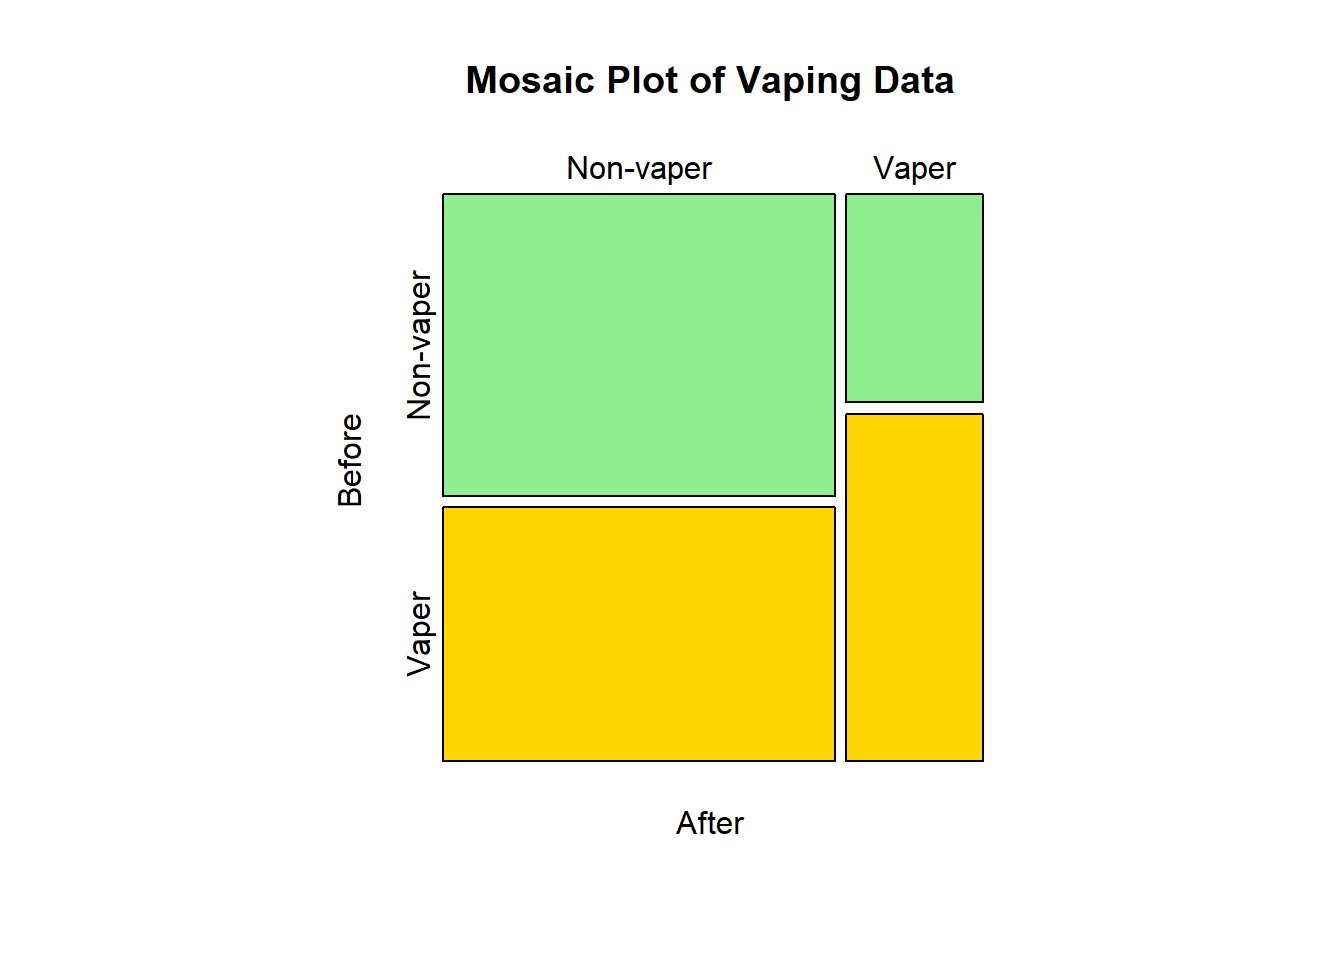
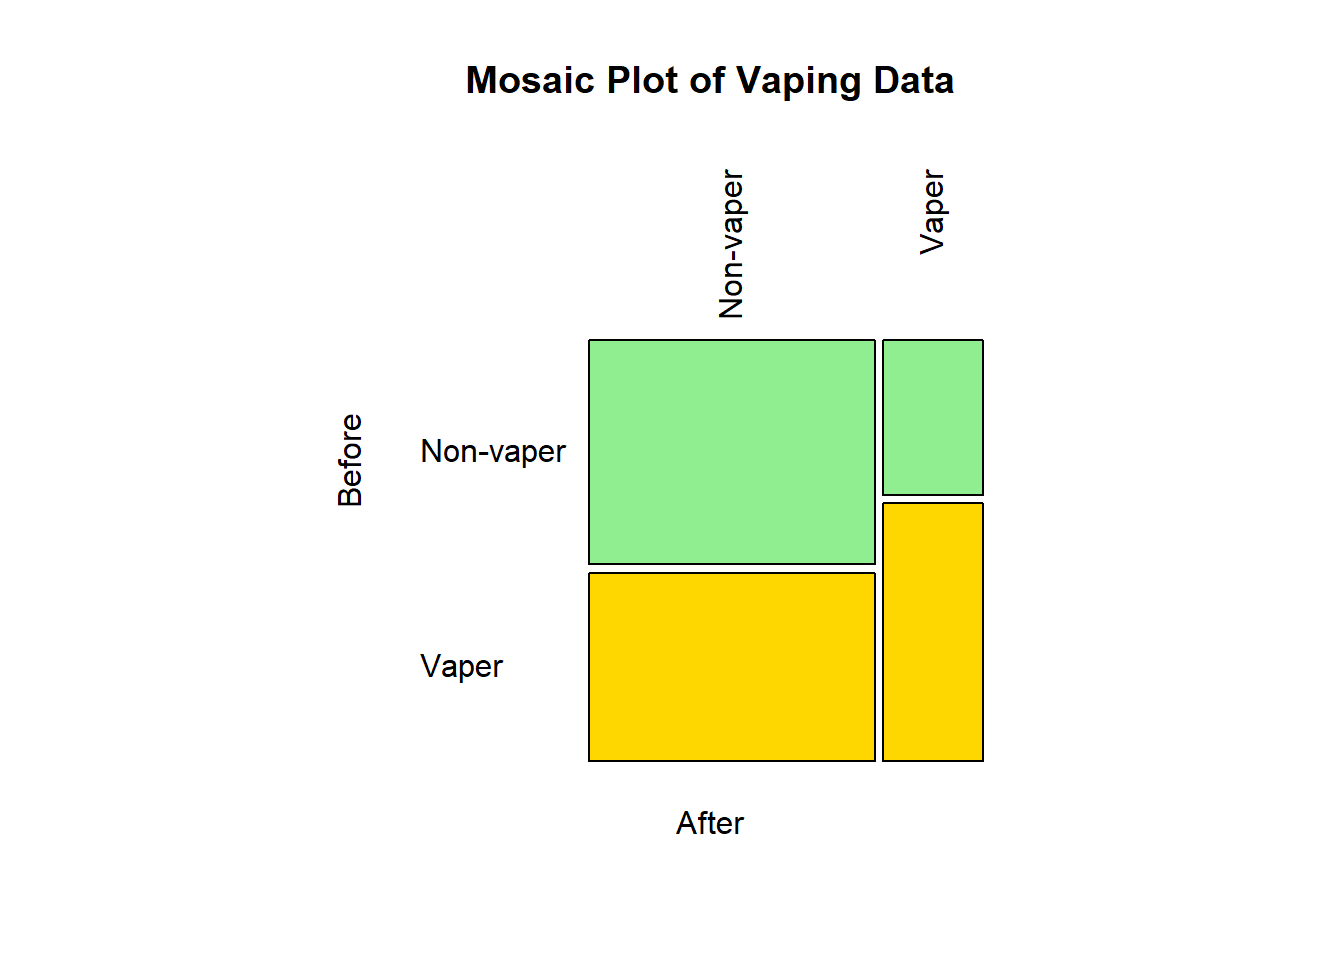
Add files via upload

Changed region(s): [[0.2812, 0.1562, 0.75, 0.8125]]

diff --git a/Stats_Workshop_4.html b/Stats_Workshop_4.html
@@ -938,7 +938,7 @@ Click to see the contingency table
 </div>
 <p><br> <br> <strong>5. Create a mosaic plot</strong><br> This is a nice way to visualise a contingency table.</p>
 <div class="cell">
-<div class="sourceCode cell-code" id="annotated-cell-21"><pre class="sourceCode r code-annotation-code code-with-copy code-annotated"><code class="sourceCode r"><button class="code-annotation-anchor" data-target-cell="annotated-cell-21" data-target-annotation="1">1</button><span id="annotated-cell-21-1" class="code-annotation-target"><a href="#annotated-cell-21-1" aria-hidden="true" tabindex="-1"></a><span class="fu">par</span>(<span class="at">pty =</span> <span class="st">"s"</span>)</span>
+<div class="sourceCode cell-code" id="annotated-cell-21"><pre class="sourceCode r code-annotation-code code-with-copy code-annotated"><code class="sourceCode r"><button class="code-annotation-anchor" data-target-cell="annotated-cell-21" data-target-annotation="1">1</button><span id="annotated-cell-21-1" class="code-annotation-target"><a href="#annotated-cell-21-1" aria-hidden="true" tabindex="-1"></a><span class="fu">par</span>(<span class="at">pty =</span> <span class="st">"s"</span>, <span class="at">las =</span> <span class="dv">2</span>)</span>
 <span id="annotated-cell-21-2"><a href="#annotated-cell-21-2" aria-hidden="true" tabindex="-1"></a><span class="fu">mosaicplot</span>(<span class="fu">t</span>(titanConTab), <span class="at">col =</span> <span class="fu">c</span>(<span class="st">"firebrick"</span>, <span class="st">"goldenrod1"</span>), <span class="at">cex.axis =</span> <span class="dv">1</span>, </span>
 <button class="code-annotation-anchor" data-target-cell="annotated-cell-21" data-target-annotation="2">2</button><span id="annotated-cell-21-3" class="code-annotation-target"><a href="#annotated-cell-21-3" aria-hidden="true" tabindex="-1"></a>           <span class="at">xlab =</span> <span class="st">"Gender"</span>, <span class="at">ylab =</span> <span class="st">"Mortality"</span>, <span class="at">main =</span> <span class="st">"Mosaic Plot of Titanic Data"</span>)</span><div class="code-annotation-gutter-bg"></div><div class="code-annotation-gutter"></div></code><button title="Copy to Clipboard" class="code-copy-button"><i class="bi"></i></button></pre></div>
 <div class="cell-annotation">
@@ -1382,7 +1382,7 @@ Before      Non-vaper Vaper
 </div>
 <p><br>We can also create a mosaic plot to visualise the contingency table data:</p>
 <div class="cell">
-<div class="sourceCode cell-code" id="cb26"><pre class="sourceCode r code-with-copy"><code class="sourceCode r"><span id="cb26-1"><a href="#cb26-1" aria-hidden="true" tabindex="-1"></a><span class="fu">par</span>(<span class="at">pty =</span> <span class="st">"s"</span>)        <span class="co"># makes a square plot</span></span>
+<div class="sourceCode cell-code" id="cb26"><pre class="sourceCode r code-with-copy"><code class="sourceCode r"><span id="cb26-1"><a href="#cb26-1" aria-hidden="true" tabindex="-1"></a><span class="fu">par</span>(<span class="at">pty =</span> <span class="st">"s"</span>, <span class="at">las =</span> <span class="dv">2</span>)        <span class="co"># makes a square plot</span></span>
 <span id="cb26-2"><a href="#cb26-2" aria-hidden="true" tabindex="-1"></a><span class="fu">mosaicplot</span>(<span class="fu">t</span>(smokeConTab), <span class="at">col =</span> <span class="fu">c</span>(<span class="st">"lightgreen"</span>, <span class="st">"gold"</span>), <span class="at">cex.axis =</span> <span class="dv">1</span>, </span>
 <span id="cb26-3"><a href="#cb26-3" aria-hidden="true" tabindex="-1"></a>           <span class="at">xlab =</span> <span class="st">"After"</span>, <span class="at">ylab =</span> <span class="st">"Before"</span>, <span class="at">main =</span> <span class="st">"Mosaic Plot of Vaping Data"</span>)</span></code><button title="Copy to Clipboard" class="code-copy-button"><i class="bi"></i></button></pre></div>
 </div>
